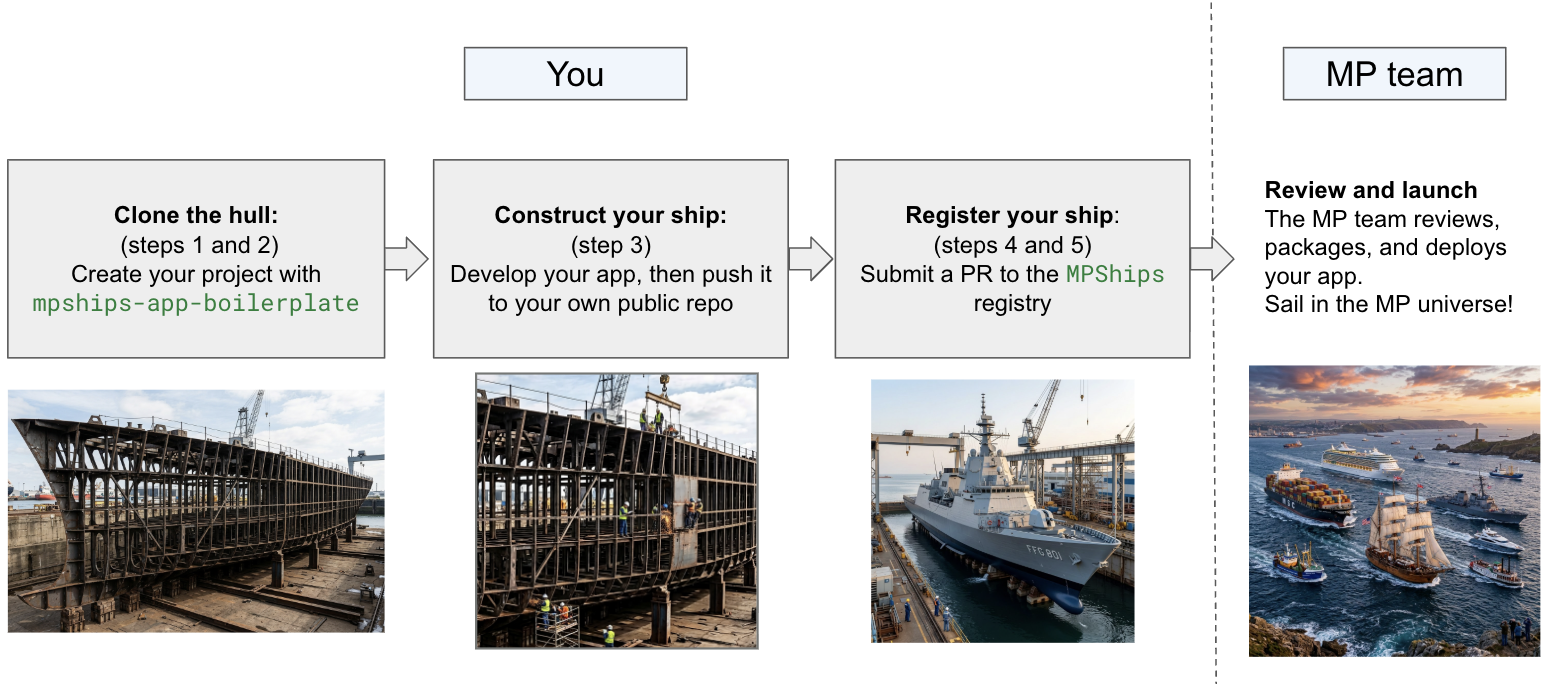
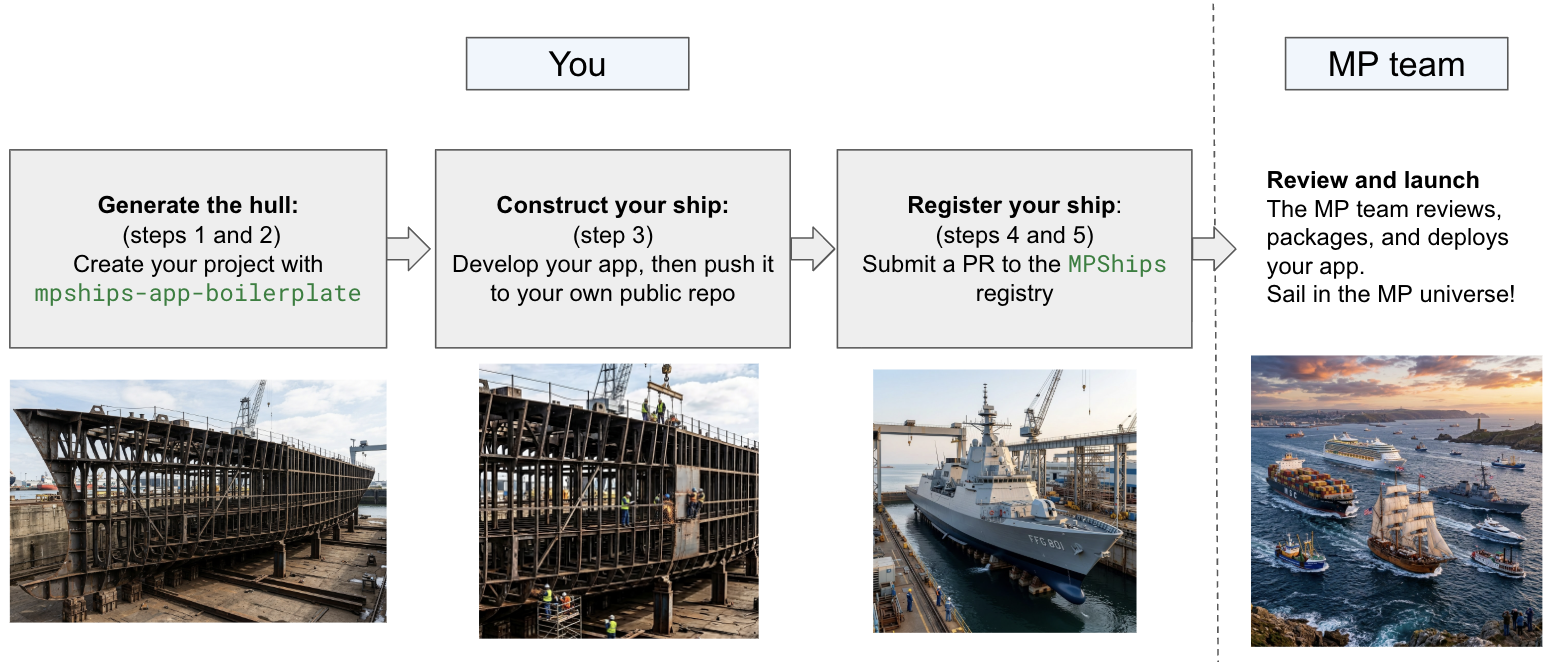
update readme and img

diff --git a/README.md b/README.md
@@ -6,7 +6,7 @@ MPShips is the platform for [contributed Dash apps](https://next-gen.materialspr
 ![MPShips workflow: create your project from the template, build your app, submit it to the registry, then the MP team reviews and launches it](./docs/MPShips-flow.png)
 
 **You**
-- Each app is a Python class that subclasses `MPShipsApp` (the hull).
+- Create your app by generating the hull from the template. This produces a basic app, which is a Python class that subclasses `MPShipsApp`.
 - You write and test the app locally.
 - You submit your app through the registry. See [Submit a PR](#5-submit-a-pr).
 
